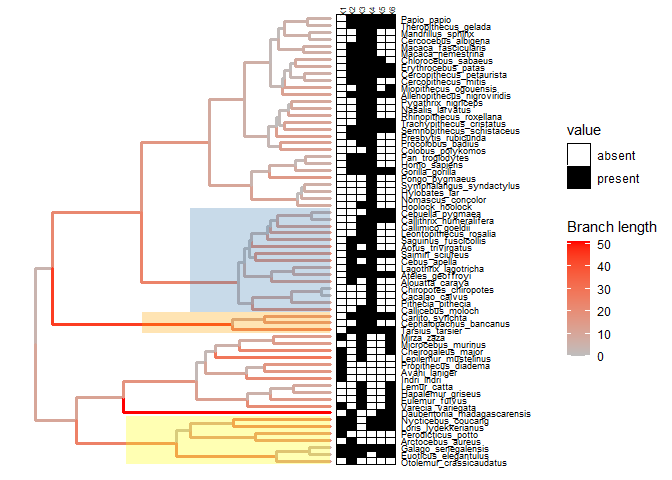
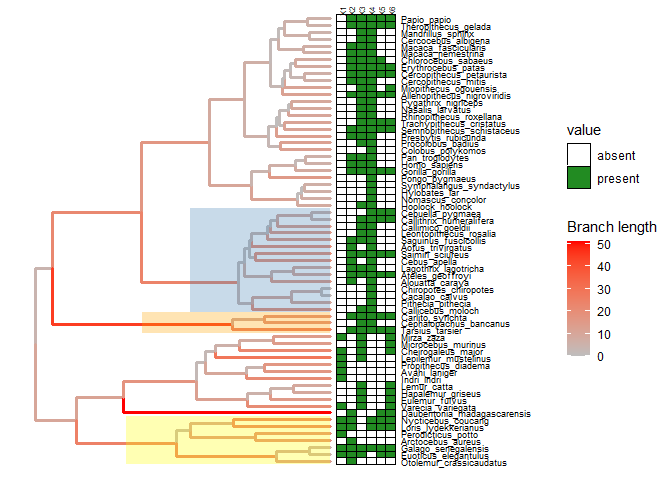
Add files via upload

Changed region(s): [[0.5, 0.0312, 0.5938, 0.9688], [0.8438, 0.3438, 0.875, 0.4062]]

diff --git a/Tutorial_1/Tut1_phylogenies.md b/Tutorial_1/Tut1_phylogenies.md
@@ -2,9 +2,18 @@ CBC Phylogenetics Tutorial 1
 ================
 Clarke van Steenderen
 
-<!-- <p style="color:red">text </p> -->
+## DOCUMENT CONTENTS
 
-## Getting started
+1.  [Getting started](#gettingstarted)
+2.  [View and trim chromatograms](#viewandtrim)
+3.  [Align sequences](#alignsequences)
+4.  [Create a haplotype network in PopART](#haplotypenetwork)
+5.  [Read genetic data into R](#readdata)
+6.  [Initial data exploration](#explore)
+7.  [Create a neighbour joining (NJ) tree](#njtree)
+8.  [Use ggtree](#ggtree)
+
+## Getting started <a name = "gettingstarted"></a>
 
 Open the “Chromatograms” folder. The sequencing facility will send you
 three files for each sample, namely a **.ab1**, **.pdf**, and **.txt**
@@ -15,7 +24,7 @@ rRNA sequences. For a quick ID, you can copy the FASTA sequence in the
 search engine. It will show you what the top matches are relative to
 what is available on the GenBank database.
 
-## View and trim chromatograms
+## View and trim chromatograms <a name = "viewandtrim"></a>
 
 Have a look at the PDF chromatogram of the BCCS1-green\_12S file. You’ll
 see that it’s a bit messy at the beginning, up to about 70 bp. The rest
@@ -33,7 +42,7 @@ AliView, and save it as one big FASTA file. Find this final file,
 **12S\_unaligned.fasta**, in the **FASTA files** folder. These sequences
 now need to be aligned.
 
-## Align sequences
+## Align sequences <a name = "alignsequences"></a>
 
 Open the [MAFFT](https://mafft.cbrc.jp/alignment/server/) server, and
 upload the **12S\_unaligned.fas** file. Select the “Same as input” radio
@@ -47,7 +56,7 @@ missing data. Do not do this for dashes elsewhere in the sequences, as
 these indicate gaps, and may be biologically meaningful. The processed
 file is called **12S\_aligned\_mafft\_ready.fasta**.
 
-## Create a haplotype network in PopART
+## Create a haplotype network in PopART <a name = "haplotypenetwork"></a>
 
 We’ll use some *Dactylopius confusus* 12S rRNA sequences for this.
 
@@ -80,7 +89,7 @@ mutations as –\> Numbers.
 
 ![](12S_confusus_for_popart.png)
 
-## Reading in genetic sequences and creating a distance matrix
+## Read genetic data into R <a name = "readdata"></a>
 
 ``` r
 if (!require("pacman")) install.packages("pacman") # pacman is a package that installs other required packages
@@ -91,11 +100,13 @@ if (!require("pacman")) install.packages("pacman") # pacman is a package that in
 ``` r
 pacman::p_load(ape, ade4, pegas, magrittr, ggplot2, ggtree)
 
-# set your working directory. 
+# If you want to read in downloaded files, set your working directory accordingly
 # You can easily do this by pressing ctrl + shift + H, then select the folder containing the file
-# Then copy and paste the line produced in the console
-setwd("~/CBC_tuts/Tutorial_1/FASTA files")
-seqs = ape::read.dna("12S_aligned_mafft_ready.fasta", format = "fasta")
+# Then copy and paste the line produced in the console, for example:
+# setwd("~/CBC_tuts/Tutorial_1/FASTA files")
+# seqs = ape::read.dna("12S_aligned_mafft_ready.fasta", format = "fasta"")
+# Otherwise just read in the data straight from the GitHub repository as shown below
+seqs = ape::read.dna("https://raw.githubusercontent.com/CJMvS/CBC_Tutorials/master/Tutorial_1/FASTA%20files/12S_aligned_mafft_ready.fasta", format = "fasta")
 # get a basic summary of your file:
 seqs 
 ```
@@ -124,7 +135,7 @@ d = ape::dist.dna(seqs, model = "TN93", pairwise.deletion = T, as.matrix = T)
 # use ?dist.dna to see which other models are available. This uses the Tamura-Nei 93 model as an example
 ```
 
-## Initial data exploration
+## Initial data exploration <a name = "explore"></a>
 
 ``` r
 # Generate a heat-map, where the darker the colour, the greater the distance between pairs of sequences
@@ -157,7 +168,7 @@ for (i in 1: nrow(seqs)){
 
 ![](FigsTut1/unnamed-chunk-2-2.png)<!-- -->
 
-## Create a neighbour joining (NJ) tree
+## Create a neighbour joining (NJ) tree <a name = "njtree"></a>
 
 Have a look [here](https://rdrr.io/cran/ape/man/plot.phylo.html) for
 more parameters for tree plotting.
@@ -223,13 +234,20 @@ plot(unroot(tree),type="unrooted",cex=0.6, use.edge.length=FALSE,lab4ut="axial",
 
 ![](FigsTut1/unnamed-chunk-3-4.png)<!-- -->
 
-## A brief introduction to the ggtree package
+## Use ggtree <a name = "ggtree"></a>
 
-The primates.nex file was taken from the [10ktrees
-website](https://10ktrees.nunn-lab.org/Primates/dataset.html), and [from
-this great
+The ggtree package offers a really great variety of options to tweak
+your phylogenies. Read more about it
+[here](https://besjournals.onlinelibrary.wiley.com/doi/full/10.1111/2041-210X.12628).
+Also check out
+[this](https://guangchuangyu.github.io/ggtree-book/chapter-ggtree.html)
+great site for neat ideas\! The **primates.nex** file was taken from the
+[10ktrees website](https://10ktrees.nunn-lab.org/Primates/dataset.html),
+and [from this great
 blog](http://www.randigriffin.com/2017/05/11/primate-phylogeny-ggtree.html).
-This NEXUS file is available in the Tutorial\_1 repository.
+This file is available in the Tutorial\_1 repository. We add node
+numbers to the phylogeny using the geom\_label2() function so that we
+can refer to these nodes when we want to add highlighting or labels.
 
 ``` r
 # to install ggtree, use these lines of code:
@@ -237,13 +255,12 @@ This NEXUS file is available in the Tutorial\_1 repository.
 # if (!requireNamespace("BiocManager", quietly = TRUE)) install.packages("BiocManager")
 # BiocManager::install("ggtree")
 
-setwd("~/CBC_tuts/Tutorial_1")
-prim.tree = read.nexus("primates.nex")
+prim.tree = read.nexus("https://raw.githubusercontent.com/CJMvS/CBC_Tutorials/master/Tutorial_1/primates.nex")
 
 # set a general dark blue colour for the tree lines
 prim1 = prim.tree %>% ggtree(., layout = "rectangular", colour = "darkblue", lwd=1.2) + xlim(0, 90) + 
   geom_tiplab(size=2.5, color="black") +
-  geom_label2(aes(subset=!isTip, label=node), size=3, color="blue", alpha=0.8) # node numbers 
+  geom_label2(aes(subset=!isTip, label=node), size=3, color="blue", alpha=0.8) # add node numbers 
 
 plot(prim1)
 ```
@@ -251,7 +268,7 @@ plot(prim1)
 ![](FigsTut1/unnamed-chunk-4-1.png)<!-- -->
 
 ``` r
-# colour according to branch lengths
+# colour according to branch lengths. If your tree has posterior probabilities, you can set that as the color if you prefer
 prim2 = prim.tree %>% ggtree(., aes(color=branch.length), layout = "rectangular", lwd=1.2) + xlim(0, 90) + 
   geom_tiplab(size=2.5, color="black") +
   geom_label2(aes(subset=!isTip, label=node), size=3, color="blue", alpha=0.8) + # node numbers +
@@ -312,9 +329,10 @@ plot(prim4)
 
 ![](FigsTut1/unnamed-chunk-6-1.png)<!-- -->
 
-Perhaps you have additional binary (such as presence/absence,
-male/female), or continuous data that you want to include in the
-phylogeny. You can do this using the gheatmap() function.
+You might have additional binary (such as presence/absence), or
+continuous data for each individual in your phylogeny that you want to
+include in the graphic. You can do this using the gheatmap() function in
+the ggtree package.
 
 We will first read in two made-up .csv files; 1)
 **primates\_binary\_traits.csv** with presence/absence data for six
@@ -322,11 +340,10 @@ variables (X1 to X6), and 2) **primates\_continuous.csv** with randomly
 generated continuous data for four variables (X1 to X4).
 
 ``` r
-setwd("~/CBC_tuts/Tutorial_1")
-traits.bin = read.csv("primates_binary_traits.csv", row.names = 1)
-traits.cont = read.csv("primate_continuous.csv", row.names = 1)
+traits.bin = read.csv("https://raw.githubusercontent.com/CJMvS/CBC_Tutorials/master/Tutorial_1/primates_binary_traits.csv", row.names = 1) # row.names = 1 makes sure that the first column is read in as row names, not as a data column
+traits.cont = read.csv("https://raw.githubusercontent.com/CJMvS/CBC_Tutorials/master/Tutorial_1/primate_continuous.csv", row.names = 1)
 
-# regenerate the phylogeny, but remove the clade labels
+# regenerate the phylogeny, but remove the clade labels to make it less cluttered
 prim5 = prim.tree %>% ggtree(., aes(color=branch.length), layout = "rectangular", lwd=1.2) + xlim(0, 120) + 
 # the tiplabels are offset here to make space for the additional trait data
   geom_tiplab(size=2.5, color="black", offset = 17) +
@@ -336,8 +353,8 @@ prim5 = prim.tree %>% ggtree(., aes(color=branch.length), layout = "rectangular"
 scale_color_continuous(low='grey', high='red', name="Branch length")
   
 # add heatmap for the binary values
-binary_phylo =  gheatmap(prim5, traits.bin, offset=0.2, width=0.2, low="white", high="black", colnames_position = "top", colnames_angle = 90, font.size=2, color="black") + 
-  scale_fill_manual(values=c("white", "black"))
+binary_phylo =  gheatmap(prim5, traits.bin, offset=0.2, width=0.2, colnames_position = "top", colnames_angle = 90, font.size=2, color="black") + 
+  scale_fill_manual(values=c("white", "forestgreen"))
 ```
 
     ## Scale for 'fill' is already present. Adding another scale for 'fill', which
@@ -351,10 +368,12 @@ plot(binary_phylo)
 
 ``` r
 # add heatmap for continuous values
-cont_phylo = gheatmap(prim5, traits.cont, offset=0.2, width=0.2, low="white", high="black", 
+cont_phylo = gheatmap(prim5, traits.cont, offset=0.2, width=0.2, low="white", high="forestgreen", 
               colnames_position = "top", colnames_angle = 90, font.size=2, color="black", legend_title = "Value") 
 
 plot(cont_phylo)
 ```
 
 ![](FigsTut1/unnamed-chunk-7-2.png)<!-- -->
+
+## That’s it for the first tutorial\! Stay tuned for more :).
